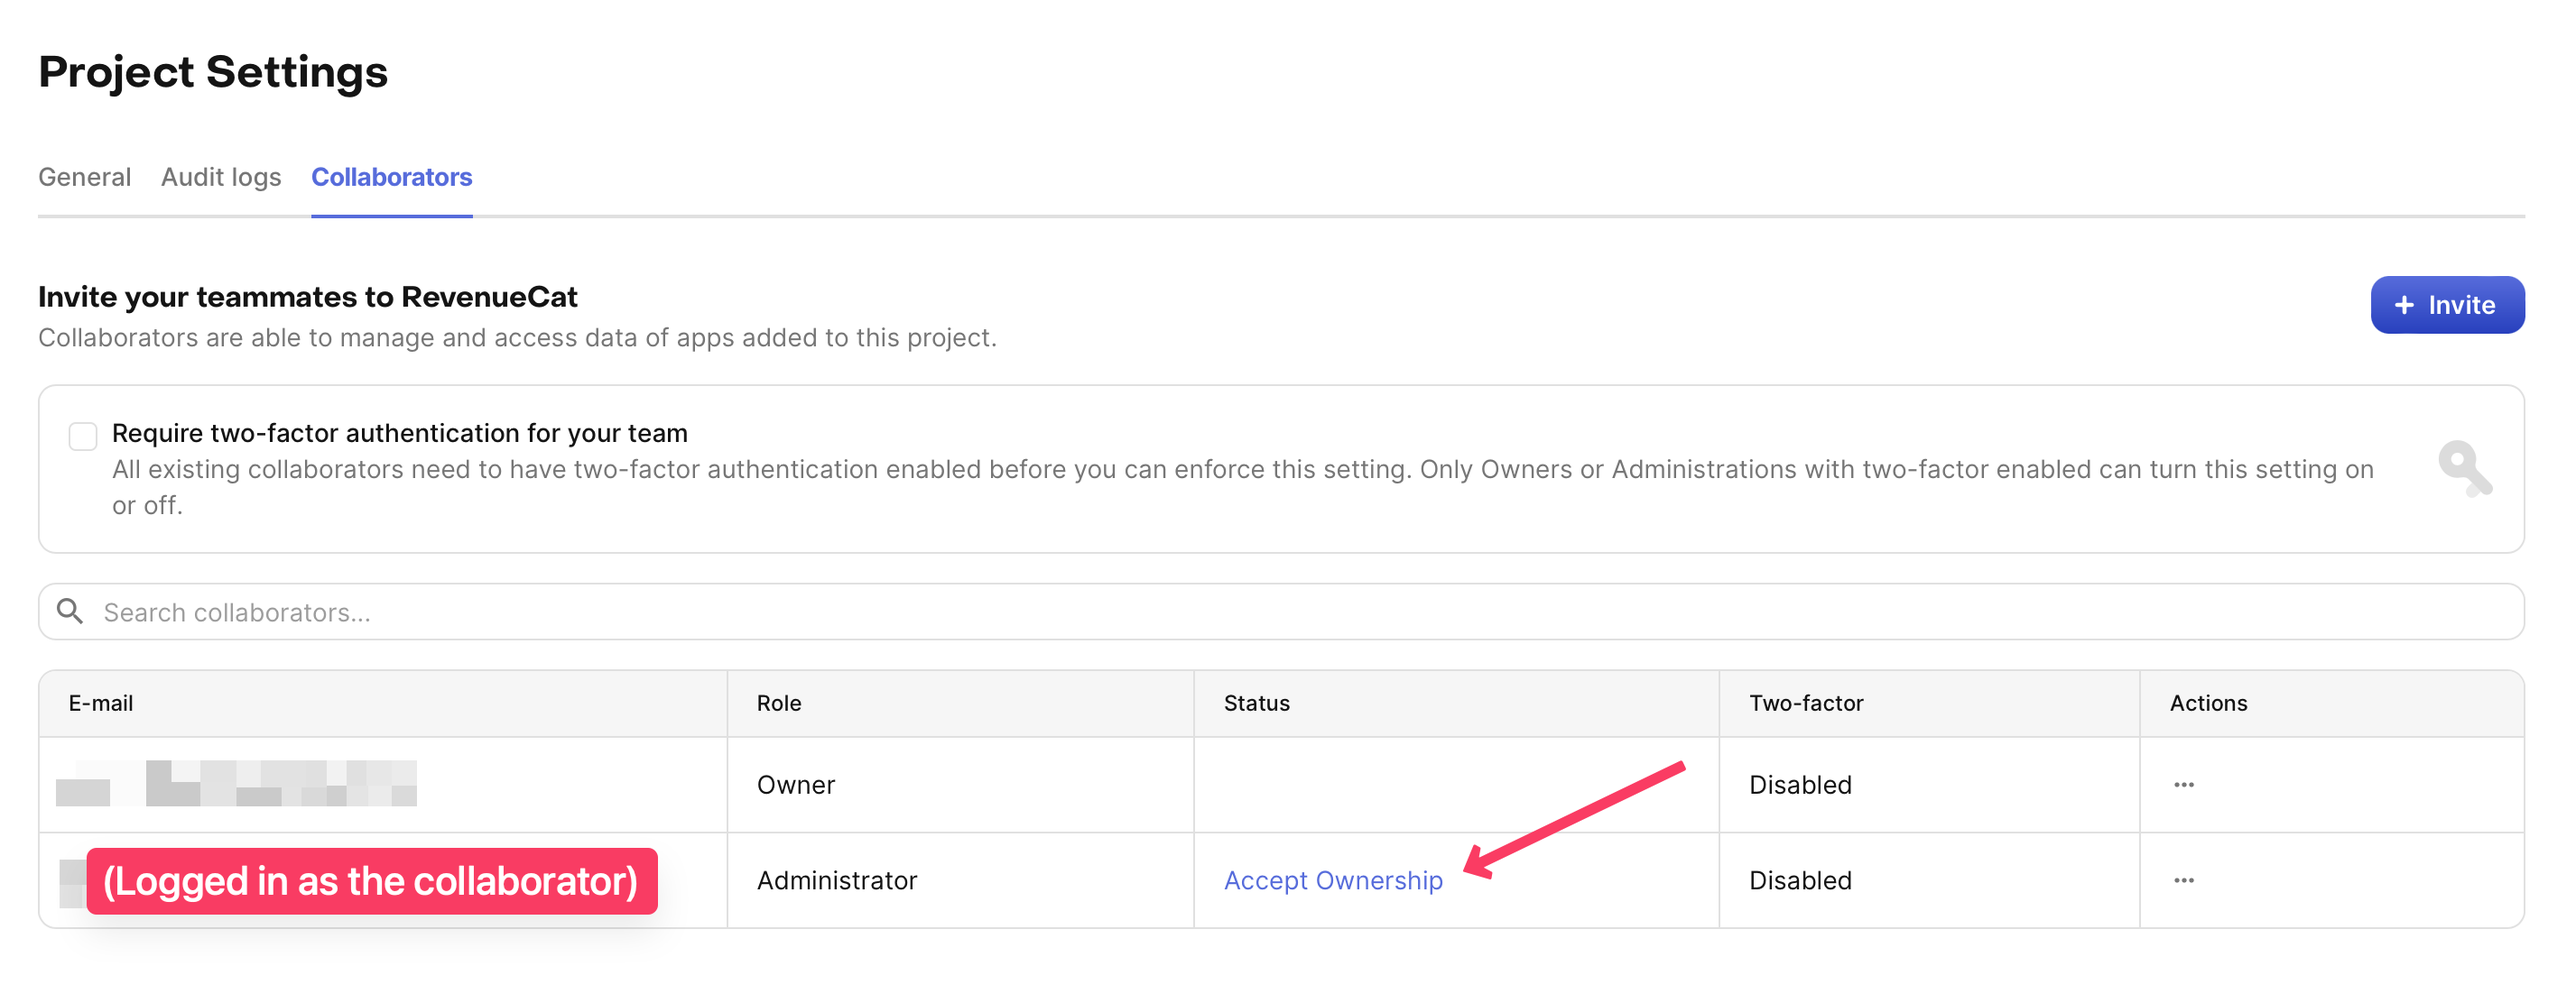
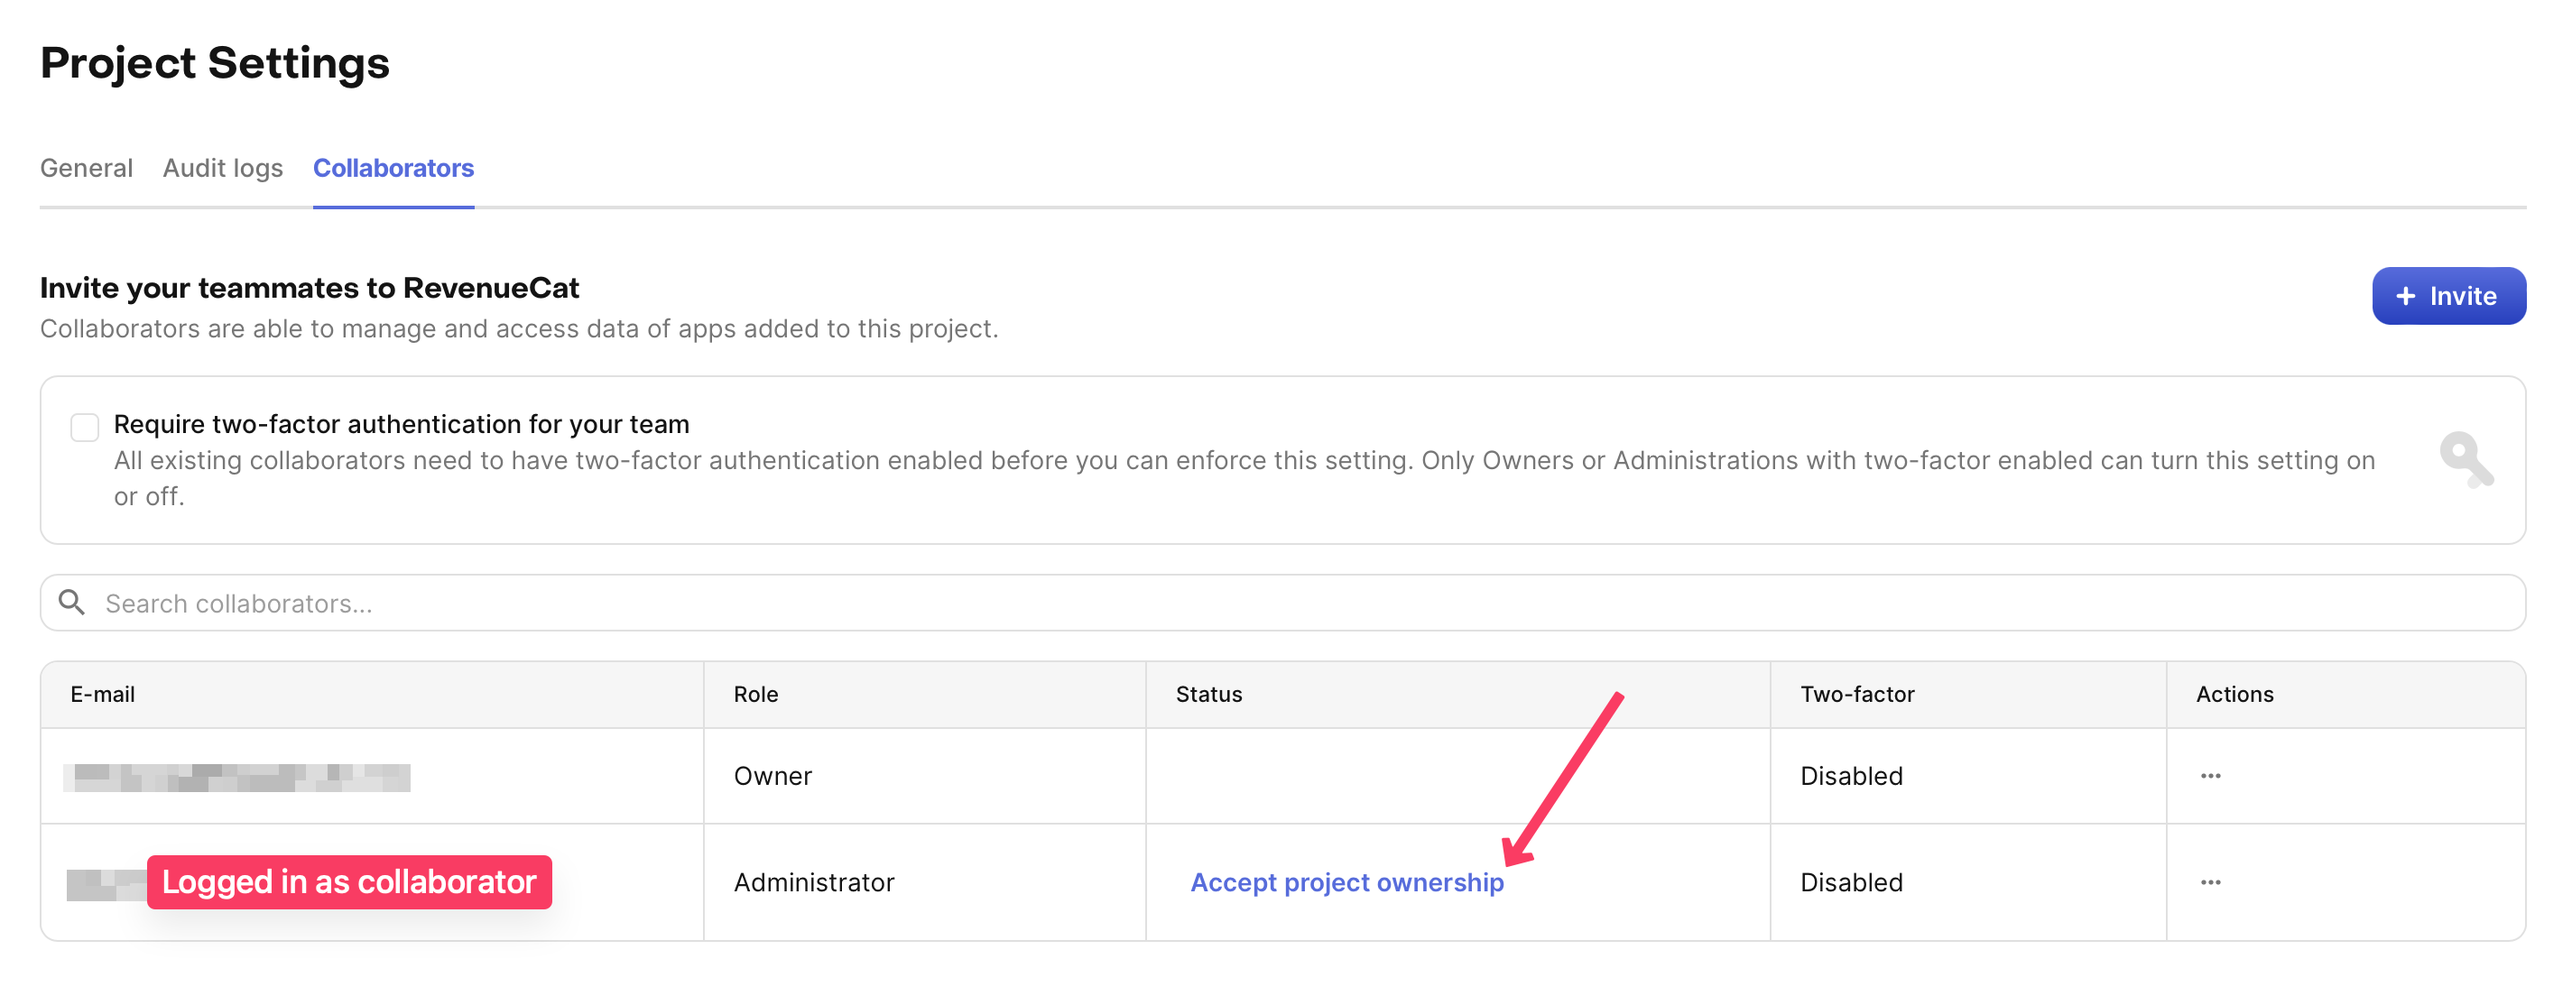
update text and images

diff --git a/docs/projects/projects-overview.md b/docs/projects/projects-overview.md
@@ -28,33 +28,33 @@ You can customize your project by setting a name as well as your global [restore
 
 :::note Requirements
 
-1. Only the project owner can transfer the project
-2. Only a collaborator with the [administrator role](/projects/collaborators#administrator) can receive a project
+1. Only the project's owner can transfer ownership
+2. Only a collaborator with the [administrator role](/projects/collaborators#administrator) can receive project ownership
 3. If the project has a Stripe app, the recipient must have their [Stripe account connected](/web/connect-stripe-account) to the project before the transfer
 4. If the project uses the [Apple Search Ads integration](/integrations/attribution/apple-search-ads#1-configure-integration), it will need to be reconfigured after the transfer
    :::
 
 #### Sending a transfer request
 
-Because a [project's owner is responsible for billing](/welcome/set-up-revenuecat/account-management#where-to-find-invoices), a project transfer must be accepted by the recipient.
+Because a [project's owner is responsible for billing](/welcome/set-up-revenuecat/account-management#where-to-find-invoices), a project transfer request must be accepted by the recipient.
 
-To send a transfer request to a collaborator, navigate to your project's settings page, then click the `Collaborators` tab. Find the collaborator you want to transfer the project to, click the `Actions` icon, and click `Transfer Ownership`:
+To send a transfer request to a collaborator, navigate to your project's Settings page, then click the `Collaborators` tab. Find the collaborator you want to transfer the project to, click the `Actions` icon, and click `Transfer project ownership`:
 
 ![transfer project action button](/docs_images/projects/transfer-project-button.png)
 
-Click `Transfer Ownership` in the confirmation modal:
+Click `Transfer project ownership` in the confirmation modal:
 
 ![confirm project transfer request](/docs_images/projects/transfer-project-confirmation-modal.png)
 
-The recipient will receive an email notification to accept the project transfer.
+The recipient will receive an email notification to accept ownership of the project.
 
 #### Accepting a transfer request
 
-Navigate to your project's settings page, then click the `Collaborators` tab. Find your email address in the table and click the `Accept Ownership` link in the Status column:
+Navigate to your project's Settings page, then click the `Collaborators` tab. Find your email address in the table and click the `Accept project ownership` link in the Status column:
 
 ![accept a project transfer request link](/docs_images/projects/accept-transfer-link.png)
 
-Both the project owner and the recipient will see the Status as `Transfer Pending` until the project transfer is complete.
+Both the project owner and the recipient will see the Status as `Transfer pending` until the project transfer is complete.
 
 _If you run into any issues, or the project transfer takes more than 1-2 business days, please [contact RevenueCat support](https://app.revenuecat.com/settings/support)._
 
